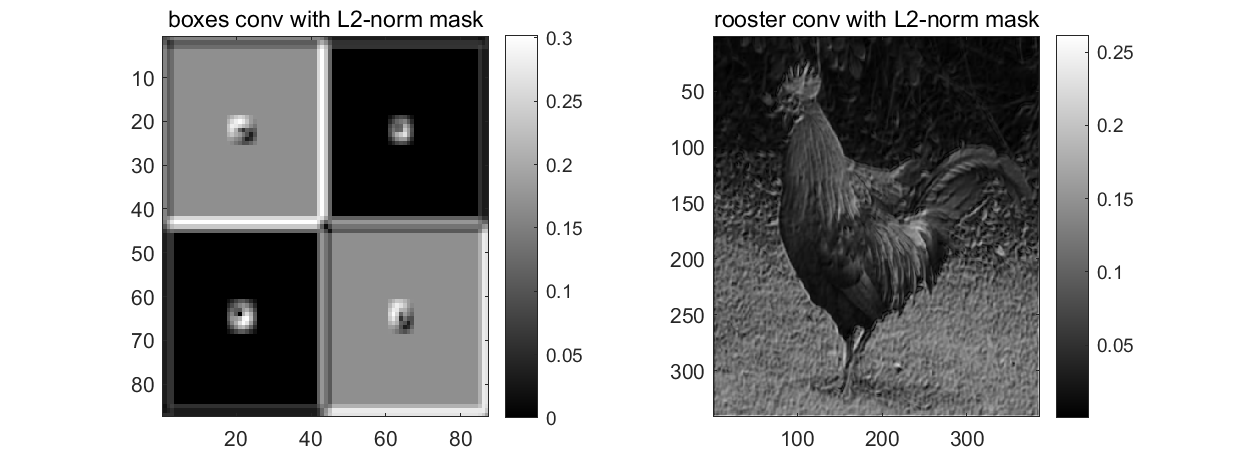
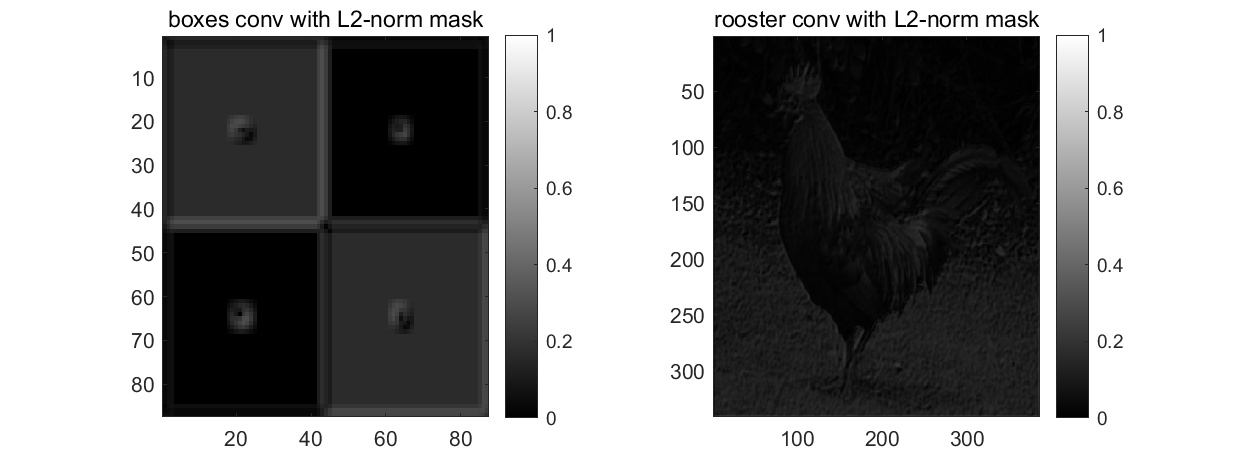
caxis_setting

diff --git a/lab1/q513.m b/lab1/q513.m
@@ -1,5 +1,5 @@
 clear;read_pic;
-Gmask = fspecial('gaussian',[5 5],1.5);
+Gmask = fspecial('gaussian',5,1.5);
 drvtmask = [-1 1];
 Gdrvtmask1 = conv2(Gmask,drvtmask,'same');
 Gdrvtmask2 = conv2(Gmask,drvtmask','same');
@@ -10,7 +10,7 @@ y2 = conv2(rooster,Gdrvtmask2,'same');
 
 figure(1);set(gcf,'position',[50,50,800,300]);
 subplot(121),imagesc(sqrt(x1.^2+y1.^2));
-title('boxes conv with L2-norm mask');colormap('gray'),colorbar
+title('boxes conv with L2-norm mask');colormap('gray'),caxis([0 1]),colorbar;
 subplot(122),imagesc(sqrt(x2.^2+y2.^2));
-title('rooster conv with L2-norm mask');colormap('gray'),colorbar
+title('rooster conv with L2-norm mask');colormap('gray'),caxis([0 1]),colorbar
 print -dpng q513.png 

diff --git a/lab1/q522.m b/lab1/q522.m
@@ -1,0 +1,15 @@
+clear;read_pic;
+l1 = -1/8.*[1 1 1;1 -8 1;1 1 1];
+Gmask1 = fspecial('gaussian',[5 5],1.5);
+Gmask2 = fspecial('gaussian',[5 5],5);
+LoGmask1 = conv2(Gmask1,l1,'valid');
+LoGmask2 = conv2(Gmask2,l1,'valid');
+x = conv2(rooster,LoGmask1);
+y = conv2(rooster,LoGmask2);
+
+figure(1);set(gcf,'position',[50,50,800,310]);
+subplot(121),imagesc(x);title('conv from LoG1.5');
+colormap('jet'),colorbar;
+subplot(122),imagesc(y);title('conv from LoG5');
+colormap('jet'),colorbar;
+print -dpng q522.png
